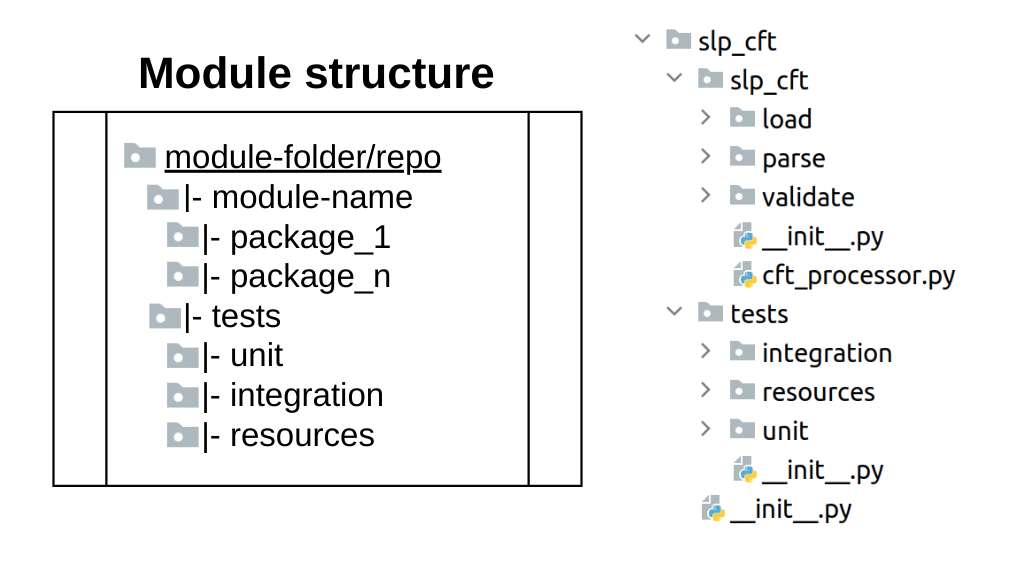
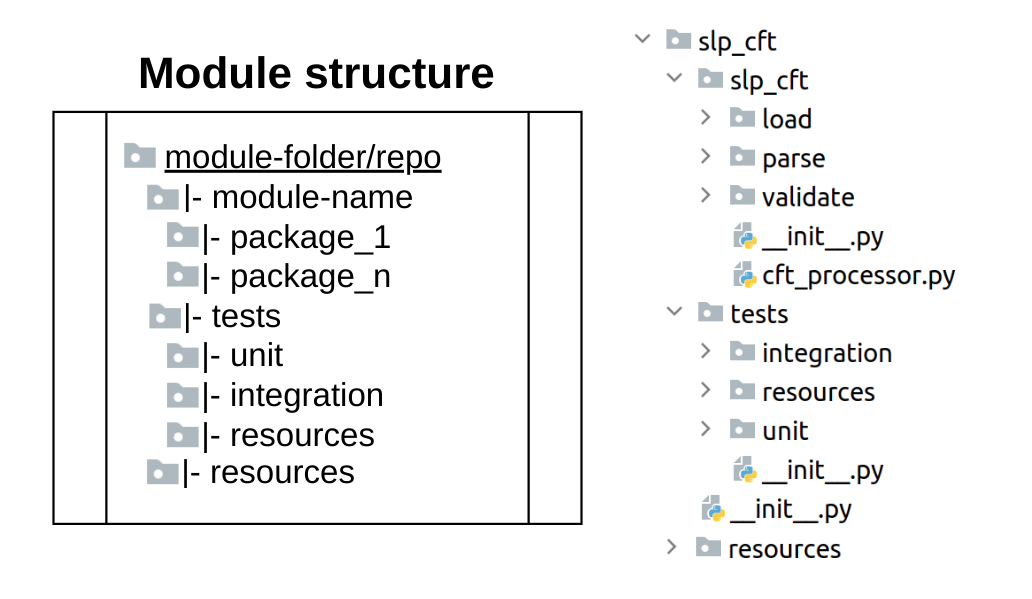
[OPT-550] Add mention to the new schemas' location in the docs

Changed region(s): [[0.031, 0.0887, 0.5897, 0.887], [0.6208, 0.0591, 0.9311, 0.9461]]

diff --git a/docs/development/Architecture.md b/docs/development/Architecture.md
@@ -48,8 +48,10 @@ facilitate a future migration to independent repositories.
 
 ![img/module-structure.png](img/module-structure.png)
 
-In the root package of each module, there are only two subpackages. The first one has the same name that the module itself 
-and contains the production code. The other one is called `tests` and contains specific tests for that module.
+In the root package of each module, there are only two subpackages, and a resources folder. The first subpackage has the 
+same name as the module itself and contains the production code. The other one is called `tests` and contains specific 
+tests for that module. The resources folder contains the resources needed by each module, for example, the schemas used 
+for validating mapping files.
 
 The root folder of each module represents its main boundary and may be understood as the main project folder if the modules 
 where migrated to independent repositories. However, instead of being simply folders, they need to be 
